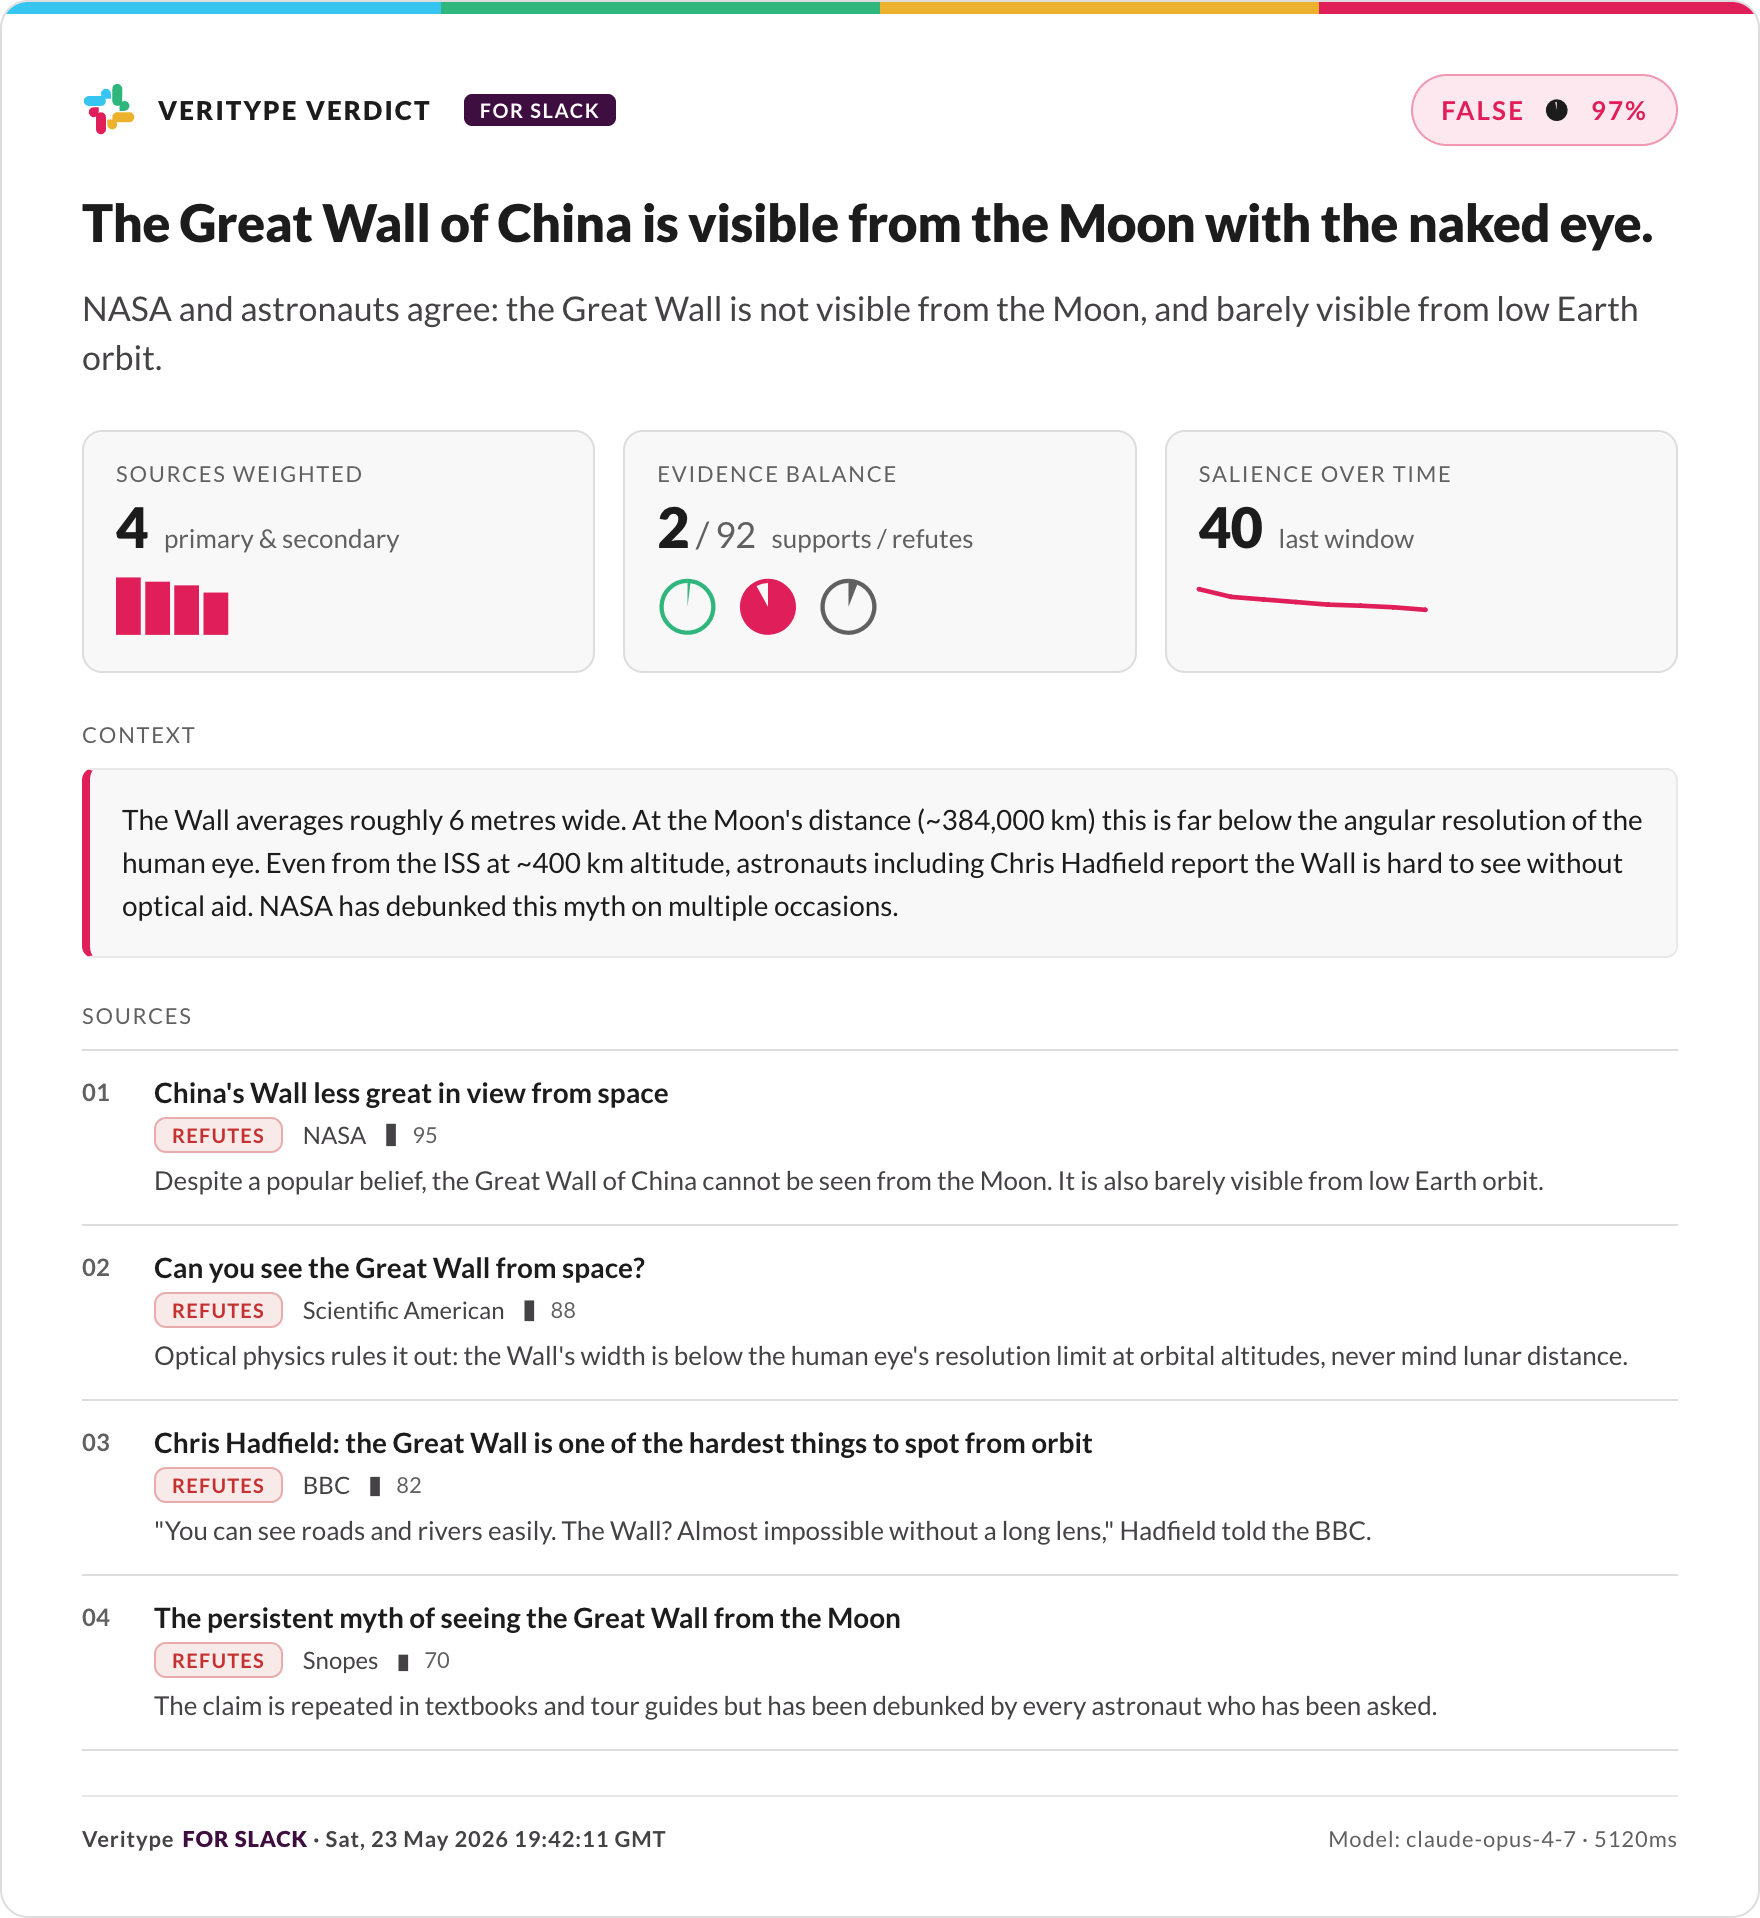
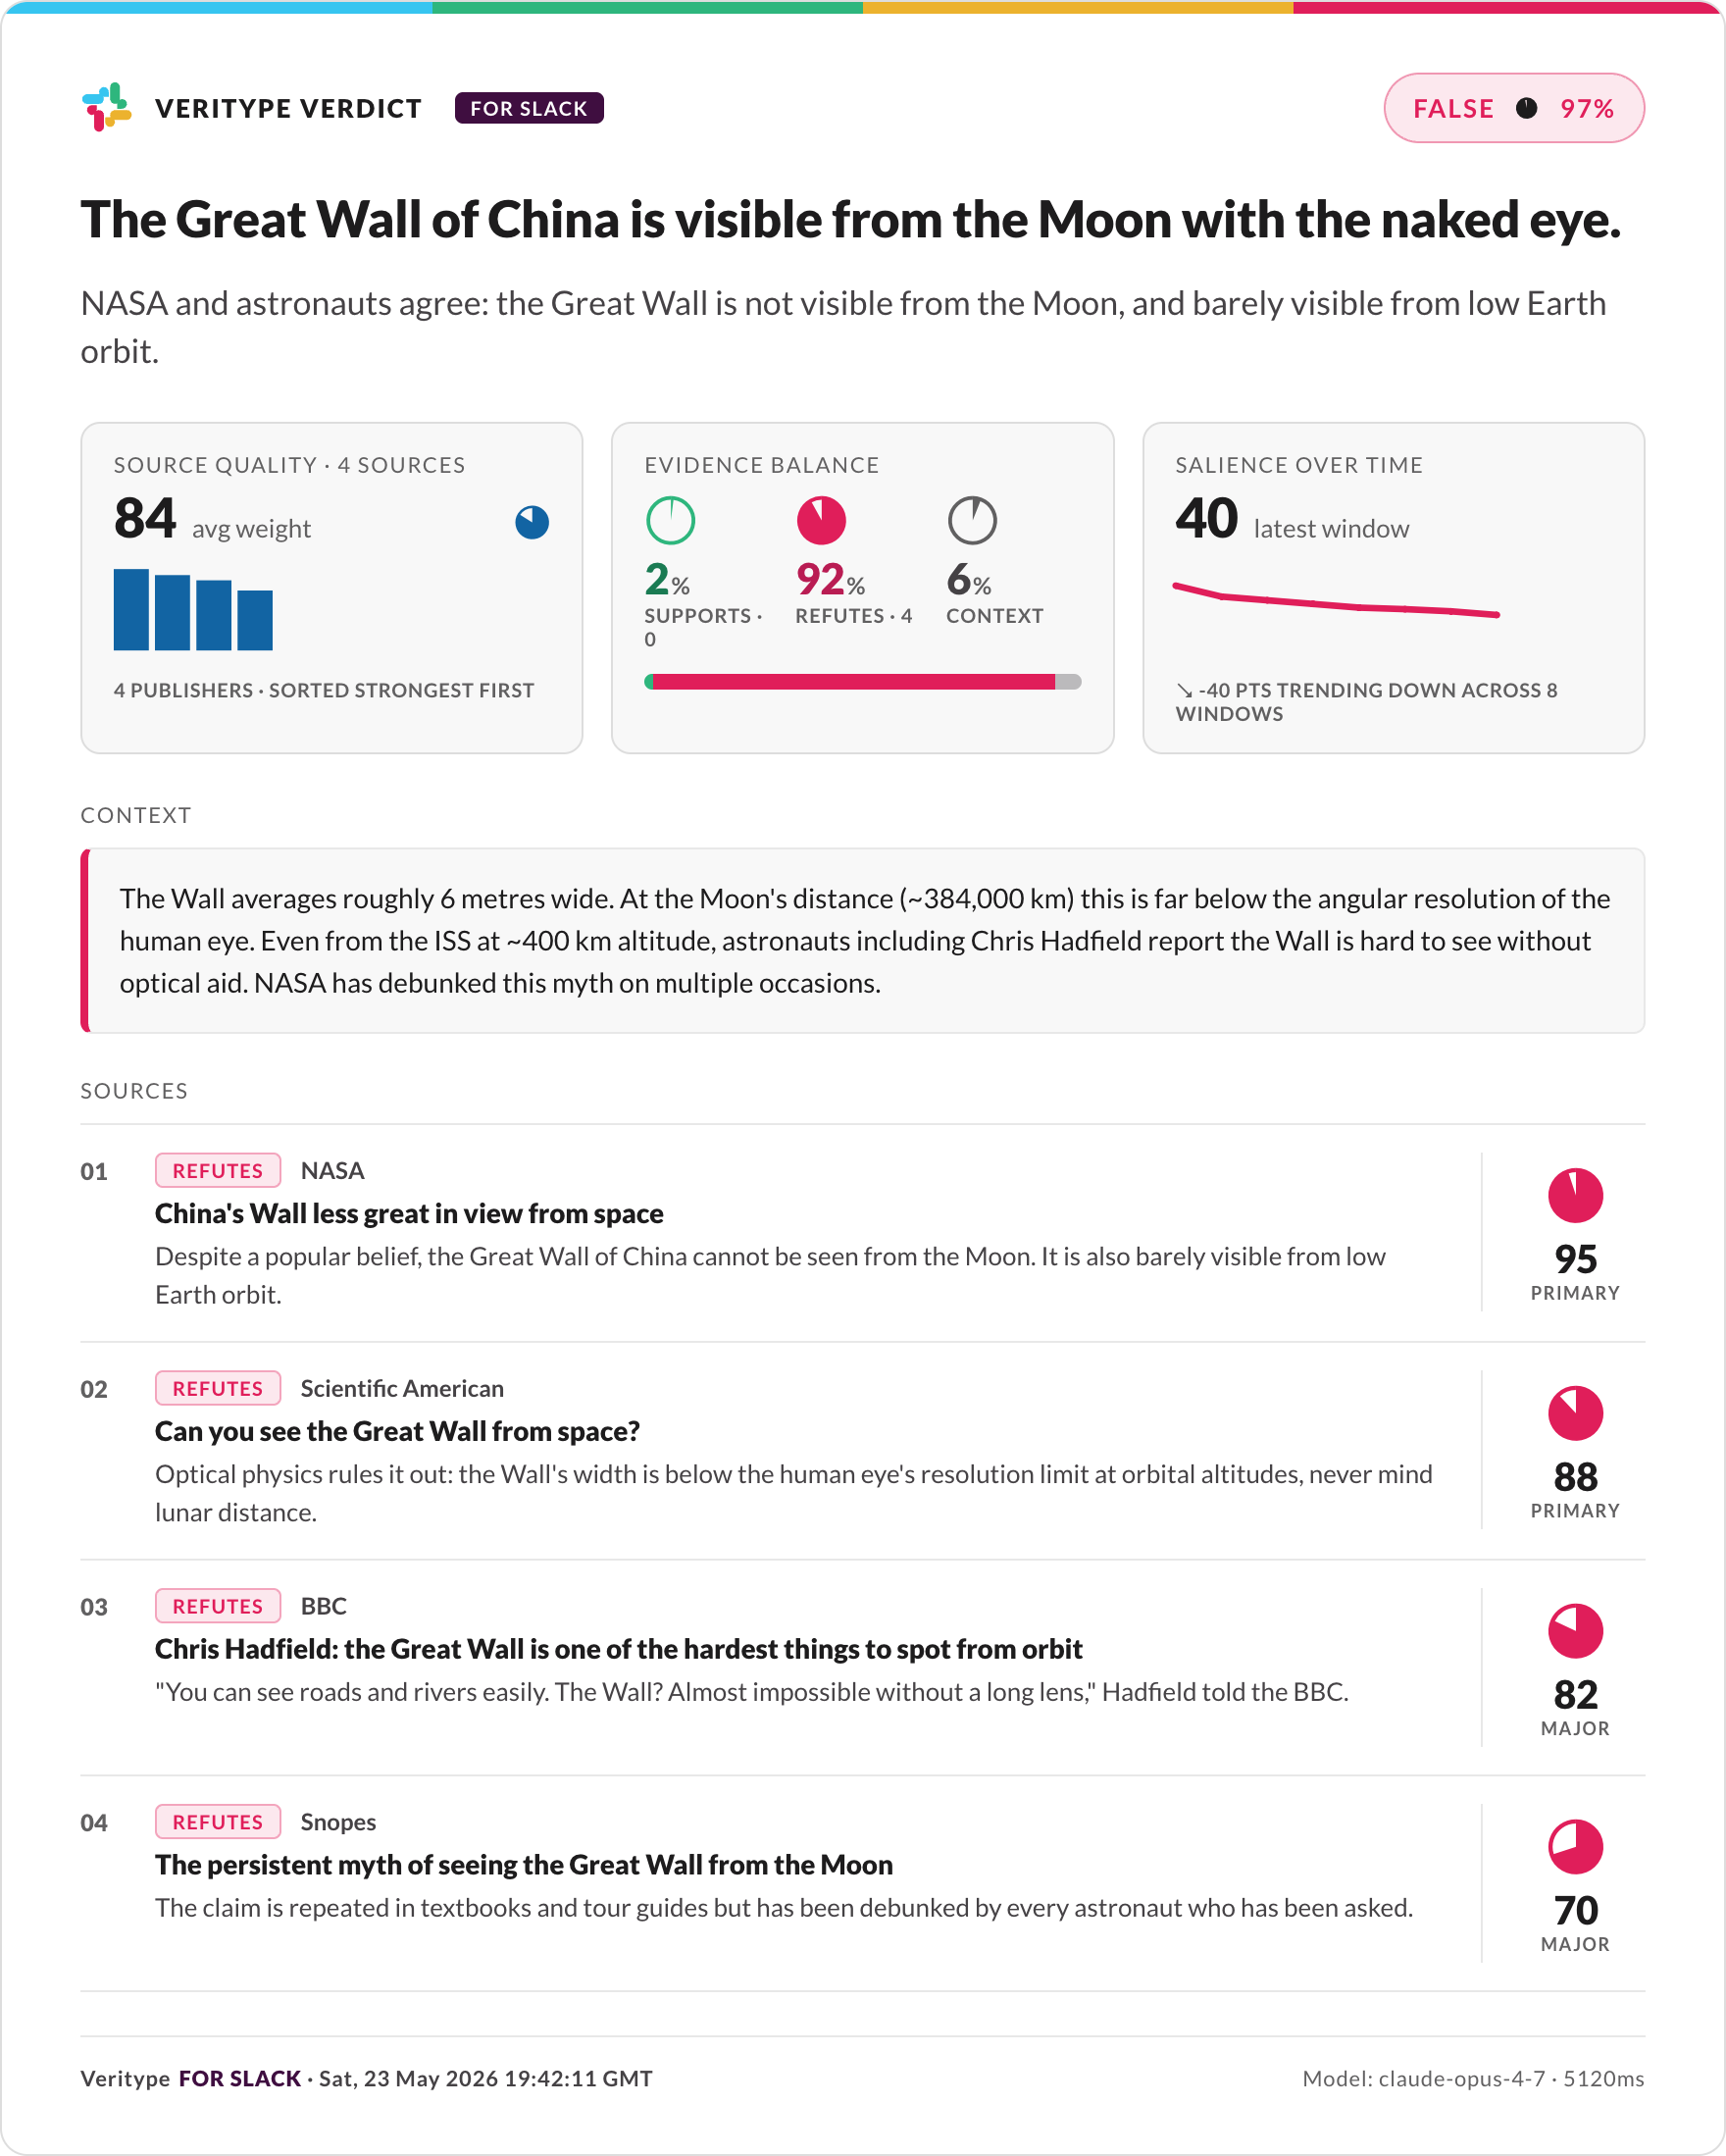
Make verdict card metrics dramatically more visual via Datatype
Per Tim: the per-source weights were just numbers, and the metrics
weren't lavish enough with Datatype chart glyphs. Reworked the three top
metrics and gave every source its own visual quality column.

Top metrics row:
- Source quality: big avg-weight number with a Slack-blue pie next to it,
  plus a 52px Datatype bar chart of every source weight sorted
  strongest-first, plus publisher-diversity counter.
- Evidence balance: three-column row with stance-colored 32px pies,
  bold percentage numbers, support / refute counts. Below: a real
  horizontal stacked bar (CSS, not Datatype) for an instant proportion
  read from green / red / gray.
- Salience over time: 52px sparkline plus a trend direction string
  ("↗ +X pts trending up across N windows") computed from the data.

Per-source row:
- Restructured each source row to put stance pill + publisher above the
  title (Slack-conventional ordering), with a dedicated weight column
  on the right.
- Weight column has a 36px stance-colored pie {p:N}, a big bold number,
  and a quality tier label (PRIMARY / MAJOR / SECONDARY / LIGHT) bucketed
  by weight thresholds (>=85 / >=70 / >=55 / else).

diff --git a/src/core/cardTemplate.ts b/src/core/cardTemplate.ts
@@ -21,7 +21,6 @@ export function buildCardHtml(report: VerificationReport): string {
   const verdictLabel = VERDICT_LABEL[report.verdict];
   const verdictColor = VERDICT_COLOR[report.verdict];
 
-  const supportBars = `{b:${report.sourceWeights.map((w) => Math.round(w)).join(',')}}`;
   const trendSpark = `{l:${report.recencyTrend.map((n) => Math.round(n)).join(',')}}`;
   const supportPie = `{p:${Math.round(report.supportPct)}}`;
   const refutePie = `{p:${Math.round(report.refutePct)}}`;
@@ -29,29 +28,48 @@ export function buildCardHtml(report: VerificationReport): string {
   const confidencePct = Math.round(report.confidence * 100);
   const confidencePie = `{p:${confidencePct}}`;
 
+  // Sort source weights desc so the bar chart reads from strongest to weakest
+  const sortedWeights = [...report.sourceWeights].sort((a, b) => b - a).map((w) => Math.round(w));
+  const sortedWeightsExpr = `{b:${sortedWeights.join(',')}}`;
+  const avgWeight = sortedWeights.length
+    ? Math.round(sortedWeights.reduce((s, n) => s + n, 0) / sortedWeights.length)
+    : 0;
+  const avgWeightPie = `{p:${avgWeight}}`;
+
+  const publishers = Array.from(new Set(report.sources.map((s) => s.publisher.toLowerCase())));
+  const publisherDiversity = publishers.length;
+
+  const supportCount = report.sources.filter((s) => s.stance === 'supports').length;
+  const refuteCount = report.sources.filter((s) => s.stance === 'refutes').length;
+
   const sourcesHtml = report.sources
     .slice(0, 5)
     .map((s, i) => {
       const stanceColor =
         s.stance === 'supports'
-          ? '#1f9d55'
+          ? '#2EB67D'
           : s.stance === 'refutes'
-          ? '#c53030'
-          : '#5a6b75';
+          ? '#E01E5A'
+          : '#616061';
       const stanceLabel =
         s.stance === 'supports' ? 'SUPPORTS' : s.stance === 'refutes' ? 'REFUTES' : 'CONTEXT';
+      const weight = Math.round(s.weight);
+      const qualityTier = weight >= 85 ? 'PRIMARY' : weight >= 70 ? 'MAJOR' : weight >= 55 ? 'SECONDARY' : 'LIGHT';
       return `
         <li class="src-row">
           <div class="src-rank">${String(i + 1).padStart(2, '0')}</div>
           <div class="src-body">
-            <div class="src-title">${escapeHtml(s.title)}</div>
             <div class="src-meta">
               <span class="pill" style="background:${stanceColor}1a;color:${stanceColor};border:1px solid ${stanceColor}55">${stanceLabel}</span>
               <span class="src-publisher">${escapeHtml(s.publisher)}</span>
-              <span class="src-weight chart">{b:${Math.round(s.weight)}}</span>
-              <span class="src-weight-num">${Math.round(s.weight)}</span>
             </div>
+            <div class="src-title">${escapeHtml(s.title)}</div>
             <div class="src-excerpt">${escapeHtml(s.excerpt)}</div>
+          </div>
+          <div class="src-weight-col">
+            <span class="src-weight-pie chart" style="color:${stanceColor}">${`{p:${weight}}`}</span>
+            <span class="src-weight-num">${weight}</span>
+            <span class="src-weight-label">${qualityTier}</span>
           </div>
         </li>`;
     })
@@ -281,9 +299,99 @@ export function buildCardHtml(report: VerificationReport): string {
     color: var(--accent);
   }
 
+  .chart.huge {
+    font-size: 52px;
+    line-height: 1;
+    color: var(--accent);
+    display: block;
+  }
+
+  .chart.pie-inline {
+    font-size: 22px;
+    line-height: 1;
+    margin-left: auto;
+  }
+
   .chart.support { color: #2EB67D; }
   .chart.refute  { color: #E01E5A; }
   .chart.context { color: #616061; }
+
+  .metric-sub {
+    margin-top: 8px;
+    font-size: 10px;
+    color: var(--ink-3);
+    letter-spacing: 0.04em;
+    text-transform: uppercase;
+    font-weight: 700;
+    font-family: 'Lato', sans-serif;
+  }
+
+  .metric .metric-value {
+    width: 100%;
+  }
+
+  /* Evidence balance */
+  .evidence-row {
+    display: grid;
+    grid-template-columns: 1fr 1fr 1fr;
+    gap: 8px;
+    margin-top: 6px;
+  }
+
+  .evidence-stat {
+    display: flex;
+    flex-direction: column;
+    align-items: flex-start;
+    gap: 2px;
+  }
+
+  .evidence-stat .chart.big { font-size: 32px; }
+
+  .evidence-num {
+    font-family: 'Lato', sans-serif;
+    font-weight: 900;
+    font-size: 22px;
+    line-height: 1;
+    letter-spacing: -0.01em;
+  }
+
+  .evidence-num.support { color: #1A7B53; }
+  .evidence-num.refute  { color: #B91C53; }
+  .evidence-num.context { color: var(--ink-2); }
+
+  .evidence-num .pct {
+    font-size: 12px;
+    font-weight: 700;
+    color: var(--ink-3);
+    margin-left: 1px;
+  }
+
+  .evidence-tag {
+    font-size: 10px;
+    color: var(--ink-3);
+    text-transform: uppercase;
+    letter-spacing: 0.05em;
+    font-weight: 700;
+  }
+
+  .evidence-bar {
+    display: flex;
+    width: 100%;
+    height: 8px;
+    border-radius: 4px;
+    overflow: hidden;
+    margin-top: 12px;
+    background: var(--hairline-soft);
+  }
+
+  .evidence-fill {
+    display: block;
+    height: 100%;
+  }
+
+  .evidence-fill.support-fill { background: #2EB67D; }
+  .evidence-fill.refute-fill  { background: #E01E5A; }
+  .evidence-fill.context-fill { background: #BBBABC; }
 
   .section-label {
     font-size: 11px;
@@ -314,29 +422,33 @@ export function buildCardHtml(report: VerificationReport): string {
 
   .src-row {
     display: flex;
-    gap: 14px;
-    padding: 12px 0;
-    border-top: 1px solid var(--hairline);
+    gap: 16px;
+    padding: 14px 0;
+    border-top: 1px solid var(--hairline-soft);
+    align-items: flex-start;
   }
 
-  .src-row:last-child { border-bottom: 1px solid var(--hairline); }
+  .src-row:last-child { border-bottom: 1px solid var(--hairline-soft); }
 
   .src-rank {
     font-size: 12px;
     color: var(--ink-3);
-    font-weight: 600;
+    font-weight: 900;
     width: 22px;
     flex-shrink: 0;
-    padding-top: 1px;
+    padding-top: 2px;
+    font-family: 'Lato', sans-serif;
   }
 
   .src-body { flex: 1; min-width: 0; }
 
   .src-title {
     font-size: 14px;
-    font-weight: 600;
+    font-weight: 900;
     color: var(--ink);
-    margin-bottom: 4px;
+    margin: 4px 0 4px 0;
+    font-family: 'Lato', sans-serif;
+    letter-spacing: -0.005em;
     overflow: hidden;
     text-overflow: ellipsis;
     white-space: nowrap;
@@ -348,34 +460,64 @@ export function buildCardHtml(report: VerificationReport): string {
     gap: 10px;
     font-size: 12px;
     color: var(--ink-3);
-    margin-bottom: 4px;
   }
 
   .pill {
     padding: 2px 8px;
-    border-radius: 6px;
-    font-weight: 600;
+    border-radius: 4px;
+    font-weight: 700;
     font-size: 10px;
     letter-spacing: 0.06em;
+    font-family: 'Lato', sans-serif;
   }
 
-  .src-publisher { color: var(--ink-2); }
-
-  .src-weight {
-    font-size: 14px;
+  .src-publisher {
     color: var(--ink-2);
-  }
-
-  .src-weight-num {
-    font-size: 11px;
-    color: var(--ink-3);
-    margin-left: -4px;
+    font-weight: 700;
+    font-family: 'Lato', sans-serif;
   }
 
   .src-excerpt {
     font-size: 13px;
     color: var(--ink-2);
     line-height: 1.5;
+    font-family: 'Lato', sans-serif;
+  }
+
+  /* Source weight column on the right */
+  .src-weight-col {
+    flex-shrink: 0;
+    width: 84px;
+    display: flex;
+    flex-direction: column;
+    align-items: center;
+    gap: 2px;
+    padding: 4px 0 4px 12px;
+    border-left: 1px solid var(--hairline-soft);
+  }
+
+  .src-weight-pie {
+    font-size: 36px;
+    line-height: 1;
+    margin-bottom: 2px;
+  }
+
+  .src-weight-num {
+    font-family: 'Lato', sans-serif;
+    font-weight: 900;
+    font-size: 20px;
+    line-height: 1;
+    color: var(--ink);
+    letter-spacing: -0.01em;
+  }
+
+  .src-weight-label {
+    font-size: 9px;
+    color: var(--ink-3);
+    text-transform: uppercase;
+    letter-spacing: 0.08em;
+    font-weight: 700;
+    font-family: 'Lato', sans-serif;
   }
 
   .footer {
@@ -432,26 +574,41 @@ export function buildCardHtml(report: VerificationReport): string {
 
   <div class="grid">
     <div class="metric">
-      <div class="metric-label">Sources weighted</div>
+      <div class="metric-label">Source quality &middot; ${report.sources.length} sources</div>
       <div class="metric-value">
-        <span class="metric-num">${report.sources.length}</span>
-        <span class="metric-unit">primary &amp; secondary</span>
+        <span class="metric-num">${avgWeight}</span>
+        <span class="metric-unit">avg weight</span>
+        <span class="chart pie-inline" style="color:var(--slack-blue)">${avgWeightPie}</span>
       </div>
       <div class="chart-row">
-        <span class="chart big">${supportBars}</span>
+        <span class="chart huge" style="color:var(--slack-blue)">${sortedWeightsExpr}</span>
+      </div>
+      <div class="metric-sub">
+        ${publisherDiversity} publisher${publisherDiversity === 1 ? '' : 's'} &middot; sorted strongest first
       </div>
     </div>
 
     <div class="metric">
       <div class="metric-label">Evidence balance</div>
-      <div class="metric-value">
-        <span class="metric-num">${Math.round(report.supportPct)}<span style="color:var(--ink-3);font-weight:500;font-size:18px"> / ${Math.round(report.refutePct)}</span></span>
-        <span class="metric-unit">supports / refutes</span>
+      <div class="evidence-row">
+        <div class="evidence-stat">
+          <span class="chart big support">${supportPie}</span>
+          <span class="evidence-num support">${Math.round(report.supportPct)}<span class="pct">%</span></span>
+          <span class="evidence-tag">supports &middot; ${supportCount}</span>
+        </div>
+        <div class="evidence-stat">
+          <span class="chart big refute">${refutePie}</span>
+          <span class="evidence-num refute">${Math.round(report.refutePct)}<span class="pct">%</span></span>
+          <span class="evidence-tag">refutes &middot; ${refuteCount}</span>
+        </div>
+        <div class="evidence-stat">
+          <span class="chart big context">${contextPie}</span>
+          <span class="evidence-num context">${Math.round(report.contextPct)}<span class="pct">%</span></span>
+          <span class="evidence-tag">context</span>
+        </div>
       </div>
-      <div class="chart-row">
-        <span class="chart big support">${supportPie}</span>
-        <span class="chart big refute">${refutePie}</span>
-        <span class="chart big context">${contextPie}</span>
+      <div class="evidence-bar">
+        <span class="evidence-fill support-fill" style="width:${Math.round(report.supportPct)}%"></span><span class="evidence-fill refute-fill" style="width:${Math.round(report.refutePct)}%"></span><span class="evidence-fill context-fill" style="width:${Math.round(report.contextPct)}%"></span>
       </div>
     </div>
 
@@ -459,10 +616,13 @@ export function buildCardHtml(report: VerificationReport): string {
       <div class="metric-label">Salience over time</div>
       <div class="metric-value">
         <span class="metric-num">${report.recencyTrend[report.recencyTrend.length - 1] ?? 0}</span>
-        <span class="metric-unit">last window</span>
+        <span class="metric-unit">latest window</span>
       </div>
       <div class="chart-row trend-line">
-        <span class="chart big">${trendSpark}</span>
+        <span class="chart huge" style="color:var(--accent)">${trendSpark}</span>
+      </div>
+      <div class="metric-sub">
+        ${trendDirection(report.recencyTrend)} across ${report.recencyTrend.length} windows
       </div>
     </div>
   </div>
@@ -491,4 +651,13 @@ function escapeHtml(s: string): string {
     .replace(/>/g, '&gt;')
     .replace(/"/g, '&quot;')
     .replace(/'/g, '&#39;');
+}
+
+function trendDirection(trend: number[]): string {
+  if (trend.length < 2) return 'flat';
+  const first = trend[0]!;
+  const last = trend[trend.length - 1]!;
+  const delta = last - first;
+  if (Math.abs(delta) < 5) return 'flat';
+  return delta > 0 ? `↗ +${Math.round(delta)} pts trending up` : `↘ ${Math.round(delta)} pts trending down`;
 }